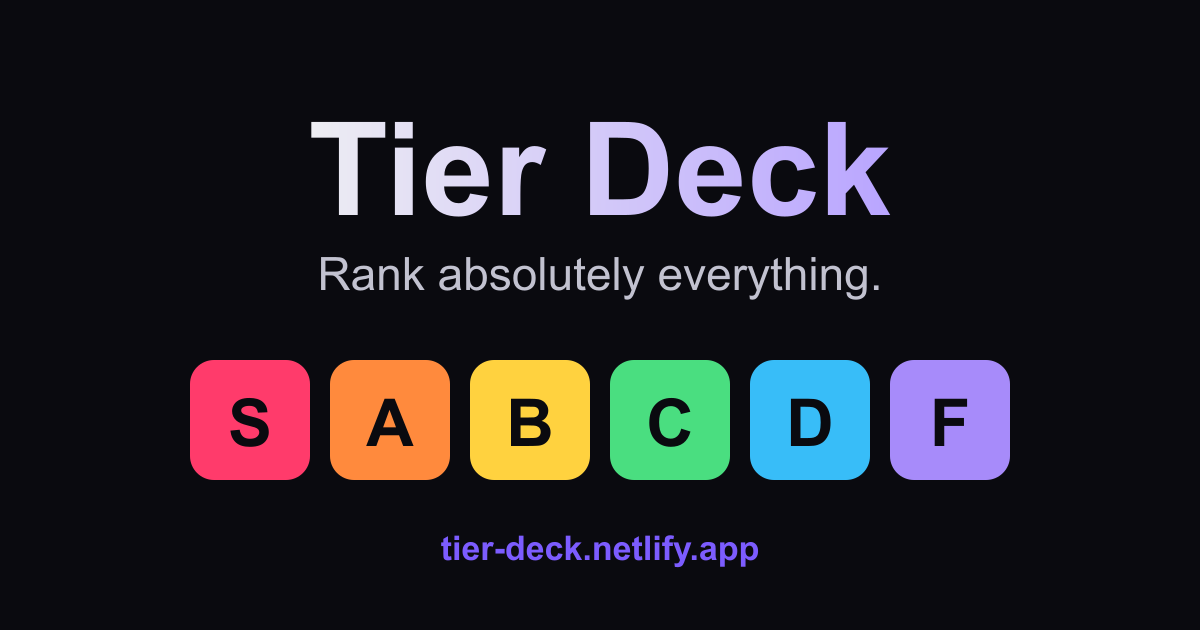
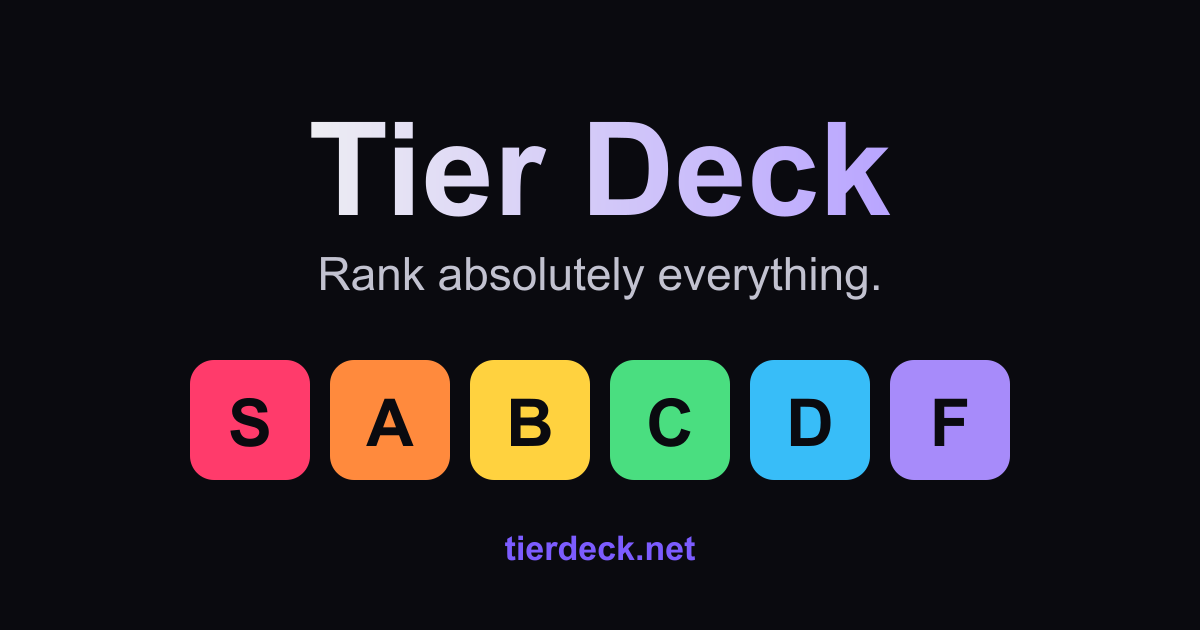
Point production at the new custom domain (tierdeck.net)
- Pin BASE_URL=https://tierdeck.net in netlify.toml so the SEO build stamps the
  right domain into the sitemap, canonical tags, and OG links.
- Update hardcoded fallbacks: SEO/meta build defaults, the OG card footer
  (regenerated og-cover.png), and the share/challenge link origins used when
  window is unavailable.
- Refresh CLAUDE.md + ship-and-verify skill to reference tierdeck.net (the old
  tier-deck.netlify.app still resolves and redirects).

Runtime share/challenge links already derive their origin from window.location,
so they follow the domain automatically once DNS points at the site.

Changed region(s): [[0.37, 0.8444, 0.6475, 0.9048]]

diff --git a/src/utils/challenge.ts b/src/utils/challenge.ts
@@ -55,7 +55,7 @@ export function decodeChallenge(param: string): Challenge | null {
  * from the current path instead of hardcoding either.
  */
 export function buildChallengeUrl(c: Challenge): string {
-  const origin = typeof window !== 'undefined' && window.location ? window.location.origin : 'https://tier-deck.netlify.app';
+  const origin = typeof window !== 'undefined' && window.location ? window.location.origin : 'https://tierdeck.net';
   const underApp =
     typeof window !== 'undefined' && window.location ? window.location.pathname.startsWith('/app') : true;
   return `${origin}${underApp ? '/app' : ''}/community/challenge?d=${encodeChallenge(c)}`;

diff --git a/src/utils/share.ts b/src/utils/share.ts
@@ -109,6 +109,6 @@ export function decodeParamToDraft(param: string): ImportDraft | null {
 export function buildShareUrl(list: TierList): string {
   const param = encodeListToParam(list);
   const origin =
-    typeof window !== 'undefined' && window.location ? window.location.origin : 'https://tierdeck.app';
+    typeof window !== 'undefined' && window.location ? window.location.origin : 'https://tierdeck.net';
   return `${origin}/import?d=${param}`;
 }

diff --git a/CLAUDE.md b/CLAUDE.md
@@ -9,7 +9,7 @@ works with no account and no network beyond public art/search APIs.
   `tier-deck-web` — **never** start a dev server with raw Bash.
 - Routes live at the **root** in dev (`/community`) but under **`/app`** in the
   production export (baseUrl). So dev = `localhost:8081/community`, prod =
-  `tier-deck.netlify.app/app/community`. Don't use `/app/...` paths locally.
+  `tierdeck.net/app/community`. Don't use `/app/...` paths locally.
 - First dev load after a code change is slow (Metro rebuilds ~1500 unminified
   modules) — that's normal, not a hang.
 - Type-check with `npx tsc --noEmit` before committing. Keep it at zero errors.
@@ -22,6 +22,9 @@ works with no account and no network beyond public art/search APIs.
   - bare `/` → **301 redirects to `/app`** (the interactive app is the front door)
   - `/app` → the Expo app · `/lists` → SEO hub · `/sneaker-brands` etc. → SEO pages
   - `/privacy`, `/terms` → legal pages
+- Live at **tierdeck.net** (custom domain on the Netlify site; the old
+  `tier-deck.netlify.app` still resolves and redirects). `BASE_URL` is pinned in
+  `netlify.toml` — the SEO build uses it for sitemap/canonical/OG links.
 - Site owned by the **Dreamthorn** Netlify team (NOT amonreal813's team). Its
   GitHub is `amonreal813-Koji/tier-deck` (public — no secrets committed).
 - `seo-site/` and `dist/` are gitignored build outputs — never commit them.

diff --git a/.claude/skills/ship-and-verify/SKILL.md b/.claude/skills/ship-and-verify/SKILL.md
@@ -31,8 +31,9 @@ Auto-deploys on push. Two ways to confirm it went green:
   before/after, so you can't diff content. Fall back to the bundle check below.
 
 ## 4. Verify the live change
-- Load the live URL in the browser (bare `tier-deck.netlify.app` → app;
-  `/lists`, `/sneaker-brands` → SEO; `/privacy` `/terms` → legal).
+- Load the live URL in the browser (bare `tierdeck.net` → app; `/lists`,
+  `/sneaker-brands` → SEO; `/privacy` `/terms` → legal). The old
+  `tier-deck.netlify.app` still resolves and redirects to the custom domain.
 - **Env-var / gating changes** are baked into the JS bundle at build time. To
   confirm a var landed, fetch the app shell and grep the entry bundle:
   ```js
